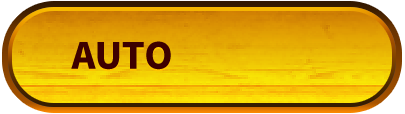
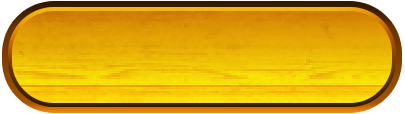
feat: add counter that shows spins count

Changed region(s): [[0.1778, 0.3421, 0.4444, 0.6316]]

diff --git a/js/script.js b/js/script.js
@@ -7,6 +7,7 @@ const btnTurbo = document.querySelector('.panel__turbo-btn');
 const check = document.querySelector('.panel__turbo-check');
 const turboBg = document.querySelectorAll('.panel__turbo-bg');
 const btnAuto = document.querySelector('.panel__auto-btn');
+const autoCounter = document.querySelector('.panel__auto-counter');
 const btnSpin = document.querySelector('.panel__spin-btn');
 const spinSign = document.querySelector('.panel__spin-sign');
 const spins = document.querySelectorAll('.panel__auto-spin');
@@ -34,21 +35,111 @@ spins.forEach(item => {
 })
 
 //Auto list component---------------------------------------------
-btnAuto.addEventListener('mouseover', () => {
+const height195 = () => {
     select.style.height = '195px';
-});
+}
+
+const changeAutoBtn = () => {
+    btnAuto.textContent = 'STOP';
+    btnAuto.style.paddingLeft = '50px';
+    select.removeEventListener('mouseover', height195);
+    btnAuto.removeEventListener('mouseover', height195);
+    select.style.height = '0';
+}
+
+btnAuto.addEventListener('mouseover', height195);
 
 btnAuto.addEventListener('mouseout', () => {
     select.style.height = '0';
 });
 
-select.addEventListener('mouseover', () => {
-    select.style.height = '195px';
-});
+select.addEventListener('mouseover', height195);
 
 select.addEventListener('mouseout', () => {
     select.style.height = '0';
 });
+
+btnAuto.addEventListener('click', () => {
+    if (autoCounter.classList.contains('active-counter')) {
+        audioPlay();
+        autoCounter.classList.remove('active-counter');
+        height195();
+        btnAuto.addEventListener('mouseover', height195);
+        select.addEventListener('mouseover', height195);
+        btnAuto.textContent = 'AUTO';
+        btnAuto.style.paddingLeft = '35px';
+    }
+});
+
+spins.forEach(item => {
+    item.addEventListener('click', () => {
+        if (item.dataset.count <= 25) {
+            autoCounter.textContent = `${item.dataset.count - 1}`;
+            autoCounter.style.background = 'url(images/counter-blue.png) no-repeat center / contain';
+            autoCounter.classList.add('active-counter');
+
+            let count = item.dataset.count  - 2;
+            let countSignInterval = setInterval(() => {
+                autoCounter.textContent = `${count--}`;
+                if (count < 0) {
+                    clearInterval(countSignInterval);
+                    btnAuto.click();
+                }
+
+                btnAuto.addEventListener('click', () => {
+                    if (autoCounter.classList.contains('active-counter')) {
+                        audioPlay();
+                        autoCounter.classList.remove('active-counter');
+                        height195();
+                        btnAuto.addEventListener('mouseover', height195);
+                        select.addEventListener('mouseover', height195);
+                        btnAuto.textContent = 'AUTO';
+                        btnAuto.style.paddingLeft = '35px';
+                    }
+                    clearInterval(countSignInterval);
+                });
+            }, 1500);
+    
+            changeAutoBtn();
+        } else if (item.dataset.count > 25) {
+            autoCounter.style.background = 'url(images/counter-red.png) no-repeat center / contain';
+            autoCounter.textContent = '';
+            autoCounter.innerHTML = '<img class="panel__auto-counter-sign" src="images/counter-sign.png" alt="">';
+
+            const autoCounterSign = document.querySelector('.panel__auto-counter-sign');
+            let deg = 0;
+
+            setTimeout(() => {
+                deg -= 360;
+                autoCounterSign.style.transform = `rotate(${deg}deg)`;
+            }, 300);
+
+            let countSignInterval = setInterval(() => {
+                deg -= 360;
+                autoCounterSign.style.transform = `rotate(${deg}deg)`;
+                if (deg < -20000) {
+                    clearInterval(countSignInterval);
+                }
+
+                btnAuto.addEventListener('click', () => {
+                    if (autoCounter.classList.contains('active-counter')) {
+                        audioPlay();
+                        autoCounter.classList.remove('active-counter');
+                        height195();
+                        btnAuto.addEventListener('mouseover', height195);
+                        select.addEventListener('mouseover', height195);
+                        btnAuto.textContent = 'AUTO';
+                        btnAuto.style.paddingLeft = '35px';
+                    }
+                    clearInterval(countSignInterval);
+                });
+            }, 2300);
+            autoCounter.classList.add('active-counter');
+
+            changeAutoBtn();
+        }
+    });
+})
 
 //Total and coin inrc/decr-----------------------------------------
 totalBet.textContent = `¥${totalBetIncr}`;
@@ -242,23 +333,27 @@ btnTurbo.addEventListener('click', () => {
 });
 
 //Spin btn func----------------------------------------------
-const delPressed = () => {
+function deletePressed() {
     btnSpin.classList.remove('pressed');
     spinSign.style.animation = 'rotate 5.5s linear 2s infinite';
     spinSign.src = 'images/spin-sign.png';
     spinSign.style.width = '115px';
 }
 
+function addPressed() {
+    btnSpin.classList.add('pressed');
+    spinSign.style.animation = 'none';
+    spinSign.src = 'images/stop-normal.png';
+    spinSign.style.width = '60px';
+}
+
 btnSpin.addEventListener('click', () => {
-    let timeout = setTimeout(delPressed, 3000);
+    let timeout = setTimeout(deletePressed, 3000);
     
     if (btnSpin.classList.contains('pressed')) {
-        delPressed();
+        deletePressed();
         clearInterval(timeout);
     } else {
-        btnSpin.classList.add('pressed');
-        spinSign.style.animation = 'none';
-        spinSign.src = 'images/stop-normal.png';
-        spinSign.style.width = '60px';
+        addPressed();
     }
 });

diff --git a/index.html b/index.html
@@ -42,27 +42,29 @@
             </div>
             <div class="panel__auto">
                 <div class="panel__auto-box">
-                    <button class="panel__auto-btn"></button>
+                    <button class="panel__auto-btn">AUTO</button>
+                    <div class="panel__auto-counter">
+                    </div>
                     <div class="panel__auto-select">
                         <img class="panel__auto-select-bg" src="images/spinselect.png" alt="">
                         <div class="panel__auto-spins">
-                            <div class="panel__auto-spin first-spin">
+                            <div class="panel__auto-spin first-spin" data-count="999">
                                 <div class="panel__auto-icon"></div>
                                 until feature
                             </div>
-                            <div class="panel__auto-spin">
+                            <div class="panel__auto-spin" data-count="25">
                                 25 spins
                             </div>
-                            <div class="panel__auto-spin">
+                            <div class="panel__auto-spin" data-count="20">
                                 20 spins
                             </div>
-                            <div class="panel__auto-spin">
+                            <div class="panel__auto-spin" data-count="15">
                                 15 spins
                             </div>
-                            <div class="panel__auto-spin">
+                            <div class="panel__auto-spin" data-count="10">
                                 10 spins
                             </div>
-                            <div class="panel__auto-spin">
+                            <div class="panel__auto-spin" data-count="5">
                                 5 spins
                             </div>
                         </div>

diff --git a/css/style.css b/css/style.css
@@ -176,9 +176,6 @@ img {
 .panel__turbo-btn:active {
     background: url(../images/turbo-click.png) no-repeat center / contain;
 }
-.active {
-    display: block;
-}
 .panel__auto {
     position: absolute;
     top: 34.5px;
@@ -199,12 +196,43 @@ img {
     border-bottom-right-radius: 25px;
     cursor: pointer;
     z-index: 10;
+    text-align: left;
+    padding-left: 35px;
+    font-weight: 900;
+    font-family: sans-serif;
+    color: #3d0000;
+    text-shadow: 0 1px 0 #ffc600;
+    user-select: none;
 }
 .panel__auto-btn:hover {
     background: url(../images/auto-hover.png) no-repeat center / contain;
 }
 .panel__auto-btn:active {
     background: url(../images/auto-click.png) no-repeat center / contain;
+}
+.panel__auto-counter {
+    position: absolute;
+    background: url(../images/counter-blue.png) no-repeat center / contain;
+    z-index: 10;
+    border-radius: 50%;
+    width: 35px;
+    height: 35px;
+    top: 9px;
+    left: 11px;
+    font-weight: 600;
+    color: #ffbd00;
+    font-family: sans-serif;
+    text-shadow: 0 1px 0 #10002c;
+    display: flex;
+    justify-content: center;
+    align-items: center;
+    user-select: none;
+    display: none;
+}
+.panel__auto-counter-sign {
+    position: absolute;
+    width: 27px;
+    transition: all 1s linear;
 }
 .panel__auto-select {
     position: absolute;
@@ -296,6 +324,12 @@ img {
     margin: auto;
     width: 115px;
     animation: rotate 5.5s linear 2s infinite;
+}
+.active {
+    display: block;
+}
+.active-counter {
+    display: flex;
 }
 @keyframes rotate {
     0% {
